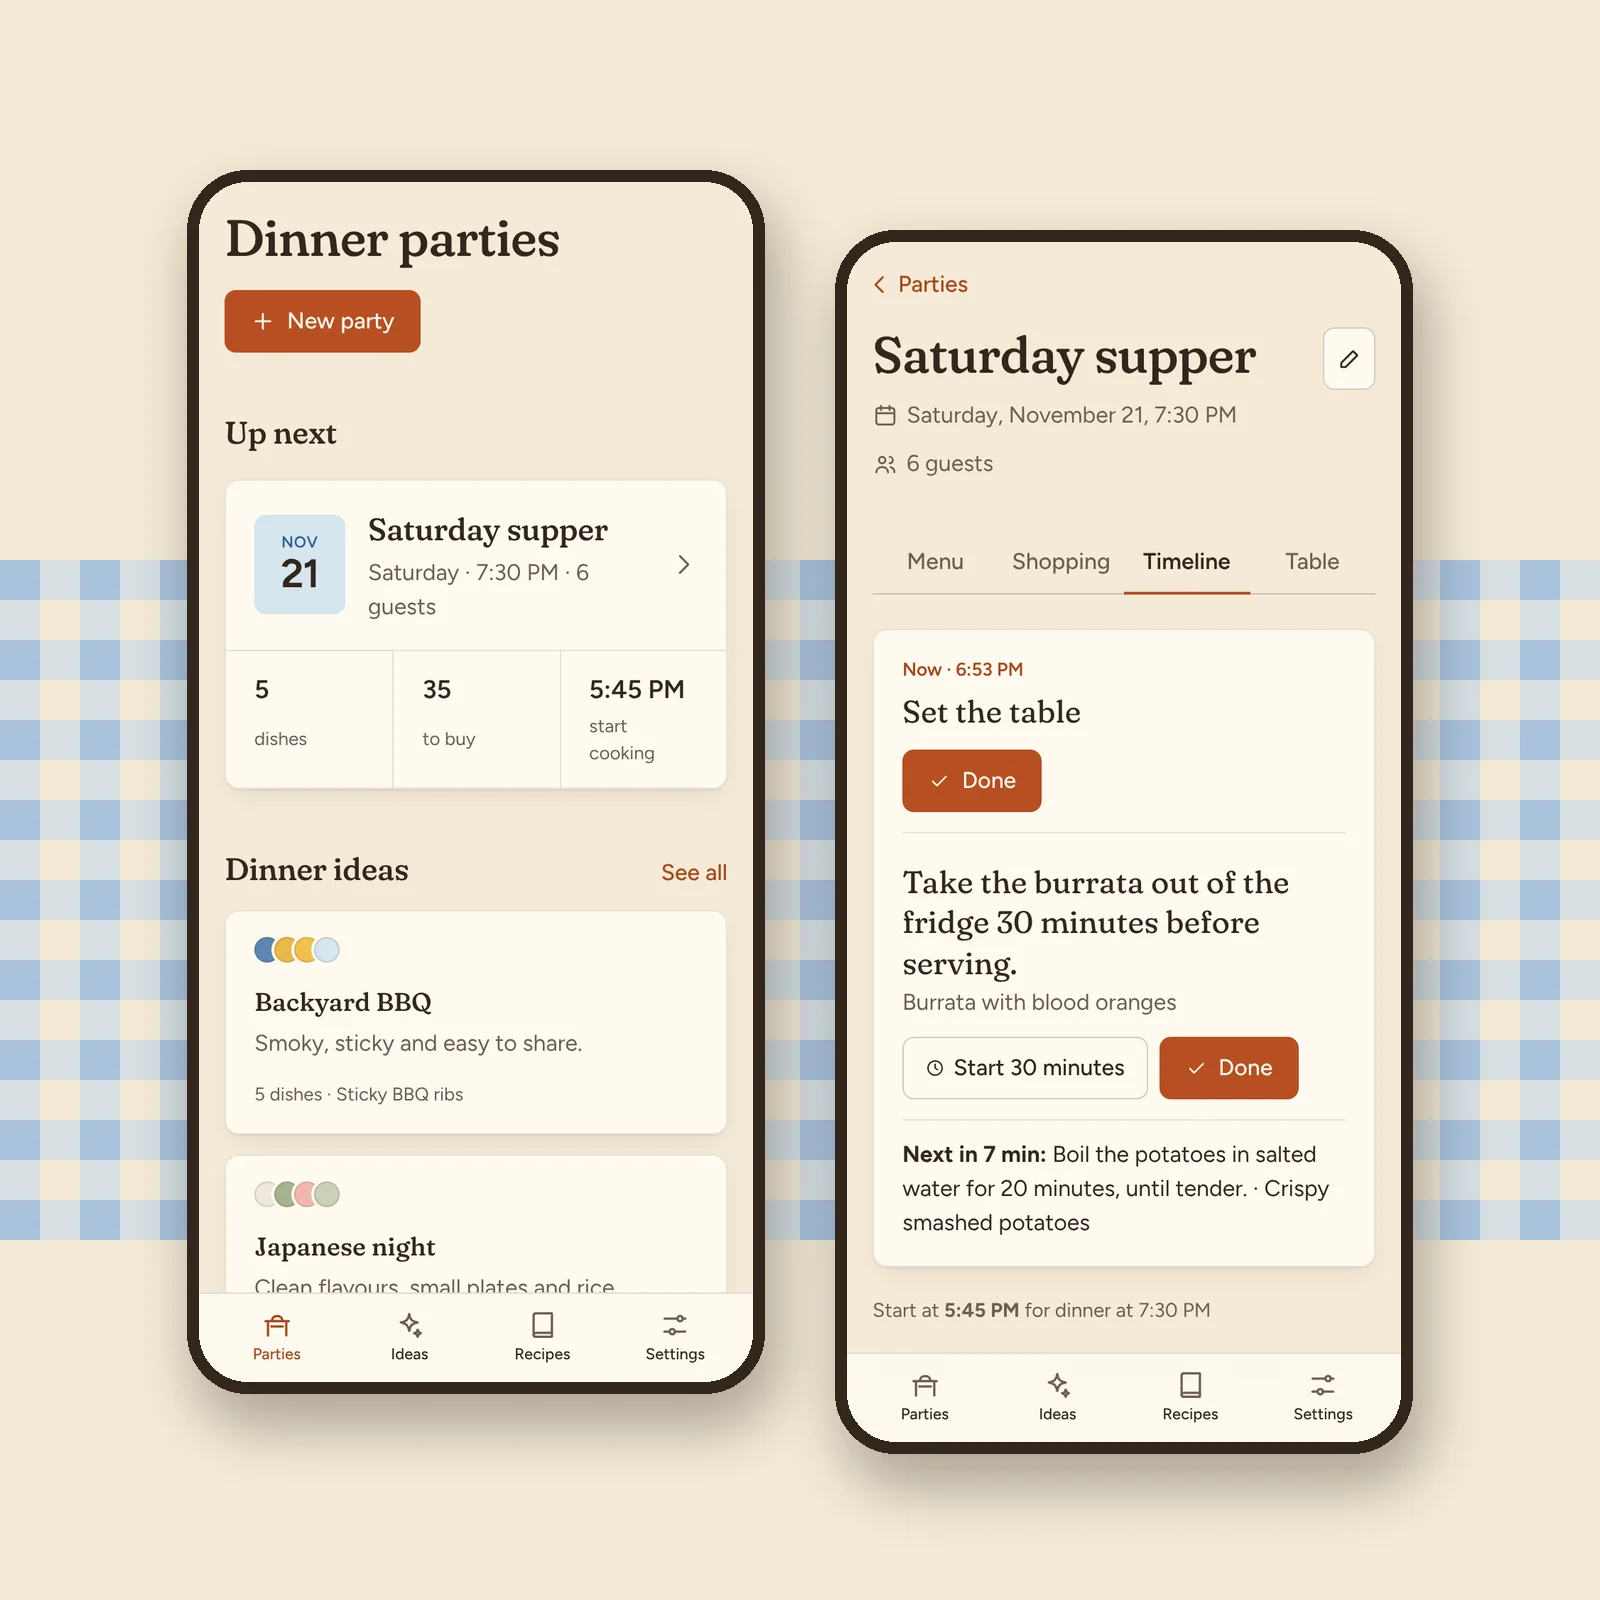
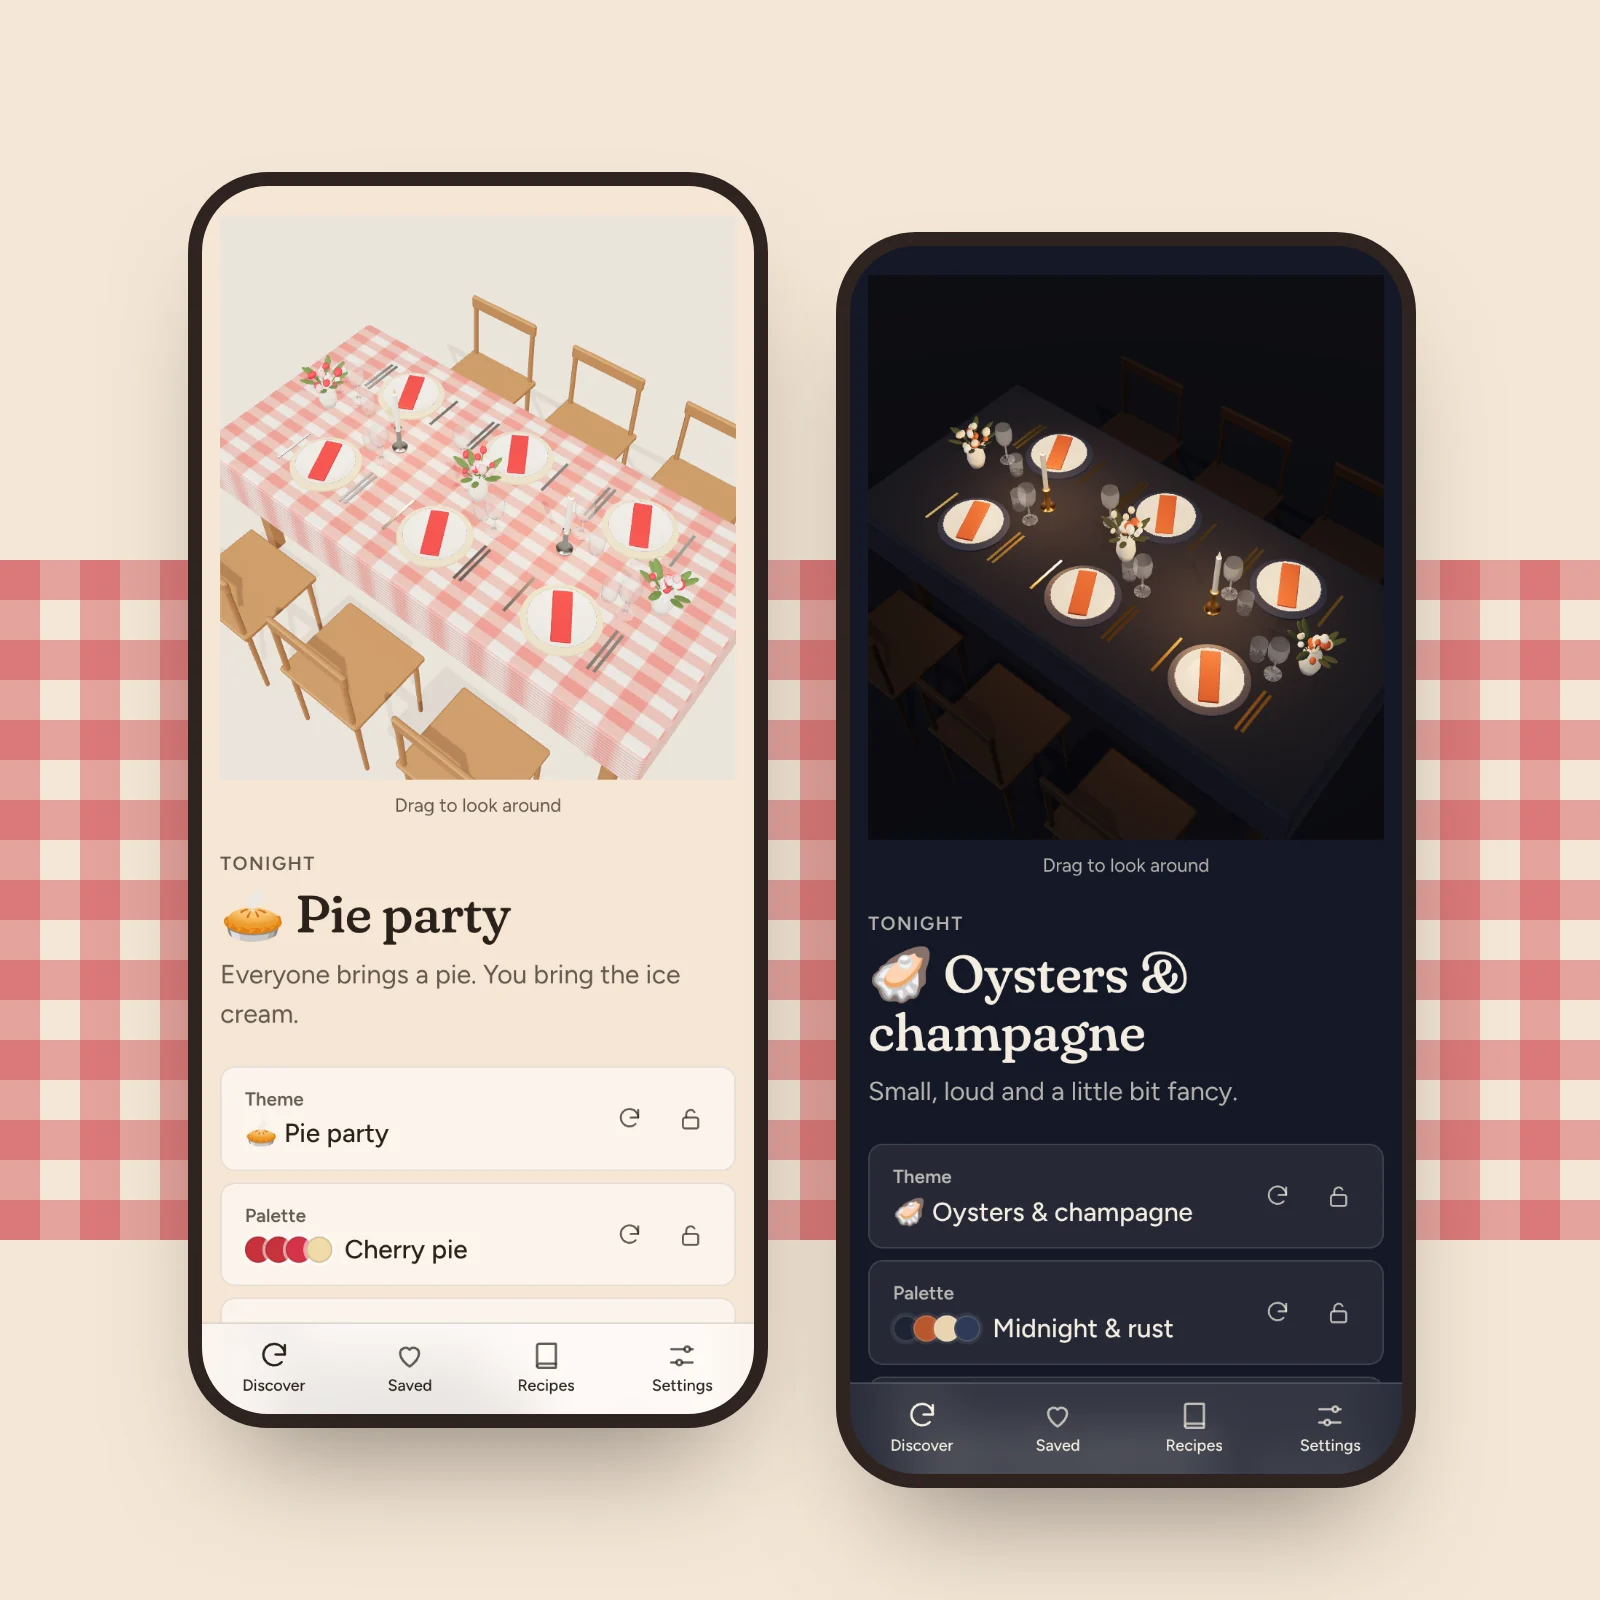
Update mise: inspiration app, new screenshots, link to the live site (#8)
* Simpler home page: new colors, plainer copy, and Dime

Blush, taupe and charcoal palette; a text-only hero with one line about me; project cards with
short descriptions and their tools, plus Dime; no fade-ins on scroll, one entrance on load,
larger text and tap targets.

Claude-Session: https://claude.ai/code/session_017GGxEp49S7uuFZmog9BHbL

* Try a marble bust and a museum wall label in the hero (stand-in shapes)

Claude-Session: https://claude.ai/code/session_017GGxEp49S7uuFZmog9BHbL

* Leave the hero text-only for now; the bust waits for the real sculpture

Claude-Session: https://claude.ai/code/session_017GGxEp49S7uuFZmog9BHbL

* mise: new description, fresh screenshots, and a link to the live app

mise is now a dinner-party inspiration app, so the card says so, the
cover and gallery show the Discover board (light and dark), and the
button opens misebyelle.netlify.app instead of the code.

Claude-Session: https://claude.ai/code/session_017GGxEp49S7uuFZmog9BHbL

---------

diff --git a/src/data/projects.js b/src/data/projects.js
@@ -24,8 +24,8 @@ import roomImg from '../img/mini-apartment/room.webp';
 import deskImg from '../img/mini-apartment/desk.webp';
 import cornerImg from '../img/mini-apartment/corner.webp';
 import miseImg from '../img/mise/cover.webp';
-import miseTimelineImg from '../img/mise/timeline.webp';
-import miseTableImg from '../img/mise/table.webp';
+import miseDiscoverImg from '../img/mise/discover.webp';
+import miseDarkImg from '../img/mise/discover-dark.webp';
 import dimeImg from '../img/dime/cover.webp';
 import dimeDecideImg from '../img/dime/decide.webp';
 import dimeEndImg from '../img/dime/end.webp';
@@ -44,10 +44,10 @@ const projects = [
     slug: 'mise',
     title: 'mise',
     medium: 'React, IndexedDB, three.js',
-    note: 'A dinner party planner for menus, shopping lists and cooking timelines.',
+    note: 'Dinner party inspiration. Reroll a theme, colors and a menu, and the table changes to match.',
     cover: miseImg,
-    images: [miseTimelineImg, miseTableImg],
-    link: { href: 'https://github.com/ElleLouie/mise', label: 'View the code' },
+    images: [miseDiscoverImg, miseDarkImg],
+    link: { href: 'https://misebyelle.netlify.app/', label: 'Try it' },
   },
   {
     slug: 'dime',
